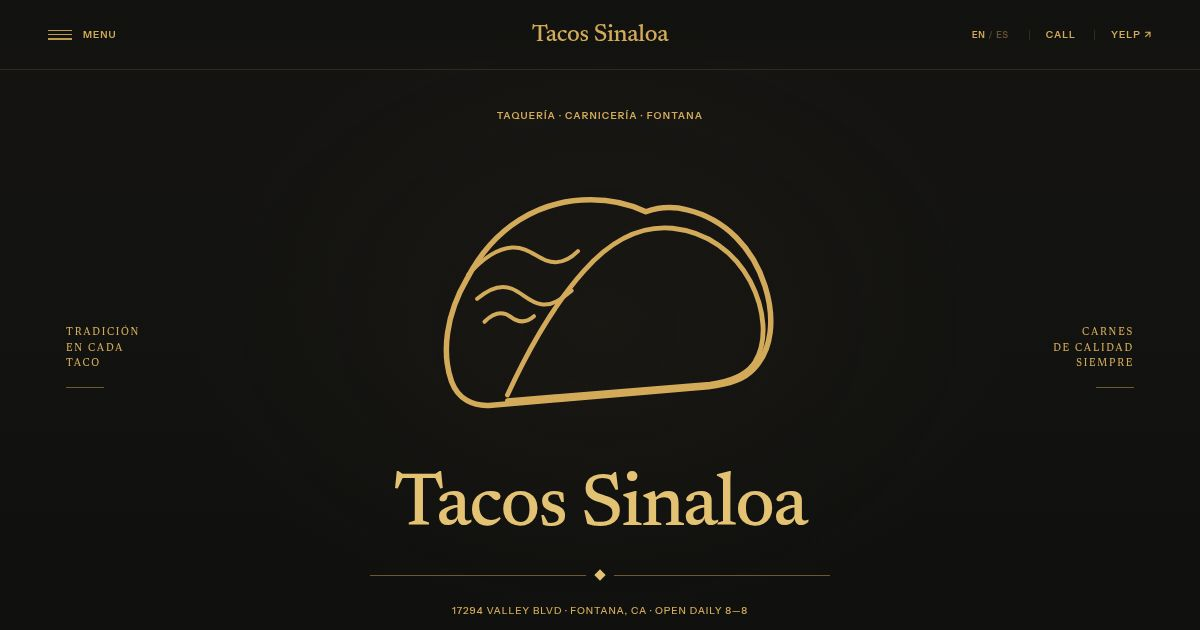
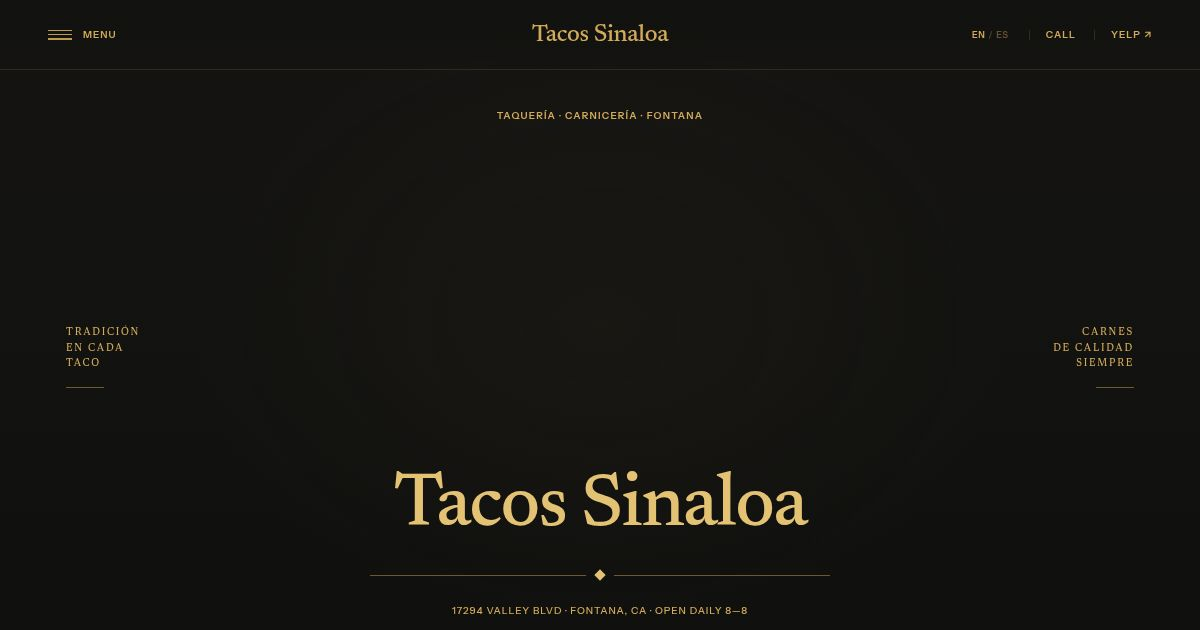
Finalize presentation build v6.6

Changed region(s): [[0.37, 0.3016, 0.6475, 0.6635]]

diff --git a/README.md b/README.md
@@ -1,39 +1,53 @@
 # Tacos Sinaloa y Carnicería — Final Presentation v6.6
 
-Two-pass final presentation build.
+Presentation-ready charcoal + antique-gold website candidate.
 
-## Pass 1 — art direction polish
-- stronger CTA hierarchy with Directions as the primary action
-- calmer selector proportions and spacing
-- corrected editorial photography crops
-- tighter section rhythm and menu scale
-- stronger Yelp action treatment
+## Final art direction
+- charcoal field with antique-gold identity system
+- custom Taco Mark with line-draw entrance
+- Newsreader display typography + Instrument Sans utility typography
+- single filled Directions CTA; Call and Yelp remain outlined
+- restrained hero side-notes and diamond divider
+- tighter section rhythm and calmer menu scale
+- refined selector image crops and responsive image viewport
 
-## Pass 2 — presentation hardening
-- responsive selector width fixed to 1120px max instead of shrink-wrapping
-- stable responsive image viewport and intrinsic image dimensions
+## Utility
+- semantic Taquería / Carnicería selector
+- one active editorial image at a time
+- live OPEN/CLOSED status in America/Los_Angeles
+- Dine-in / Takeout service note
+- direct Call / Directions / Yelp actions
+- Yelp reviews and customer-photo trust block
+- English / Spanish UI
+
+## Accessibility and motion
+- keyboard tabs: Left / Right / Home / End
+- proper aria-selected / tabpanel relationships
+- live status role + aria-live
+- language-aware tablist labeling
+- reduced-motion disables logo/panel motion and leaves all content visible
+- no scroll hijacking or infinite decorative animation
+
+## Presentation / performance hardening
 - local font preloads
-- richer Open Graph/Twitter metadata
-- Dine-in / Takeout service note with EN/ES copy
-- live status refreshes on focus/visibility changes
-- translated tablist accessibility label
-- final 1200x630 social image refreshed from exact presentation build
+- stable image dimensions + explicit responsive crop viewport
+- async image decoding and lazy loading for selector photography
+- 1200x630 social card with OG dimension and alt metadata
+- status refreshes on focus and app visibility restore
+- no missing local asset references
 
 ## Final verification
 - hosted HTTP 200
-- 390 / 768 / 1024 / 1440: zero horizontal overflow
-- semantic Taquería/Carnicería tabs and keyboard navigation pass
-- English/Spanish UI and live-status copy pass
-- America/Los_Angeles open/closed status pass
-- reduced-motion: no hidden content or panel animation
-- mobile CTA hidden on hero and visible after scroll
-- Newsreader + Instrument Sans computed correctly
-- no failed browser requests or page errors
-- no runtime external resource dependencies
-- mobile selector image 318x230; desktop selector image 613x410
+- 390 / 768 / 1024 / 1440: no horizontal overflow
+- zero browser page errors
+- zero failed requests / 4xx / 5xx local asset requests
+- both selector images verified after lazy load
+- EN/ES and live status verified
+- mobile sticky CTA hidden on hero, shown after hero
+- reduced-motion verified
 
-## Preserved candidates
+## Preserved branches
 - green-v6.3
 - charcoal-v6.4
 - charcoal-v6.5.2
-- charcoal-v6.6-final — current presentation build
+- charcoal-v6.6-final
